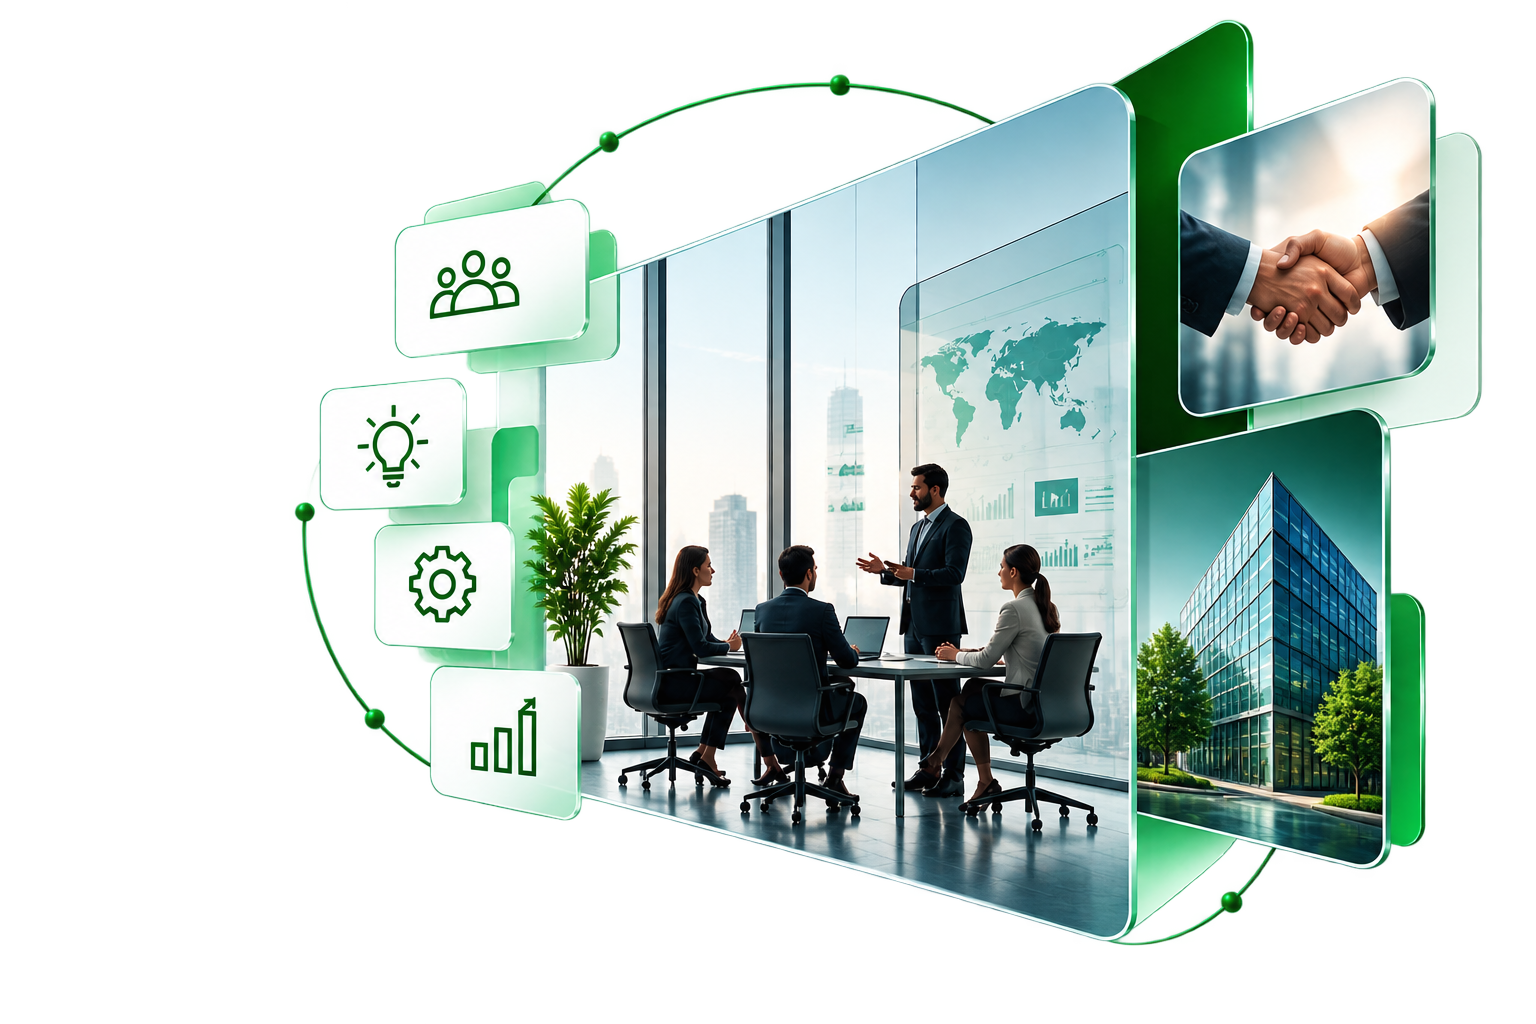
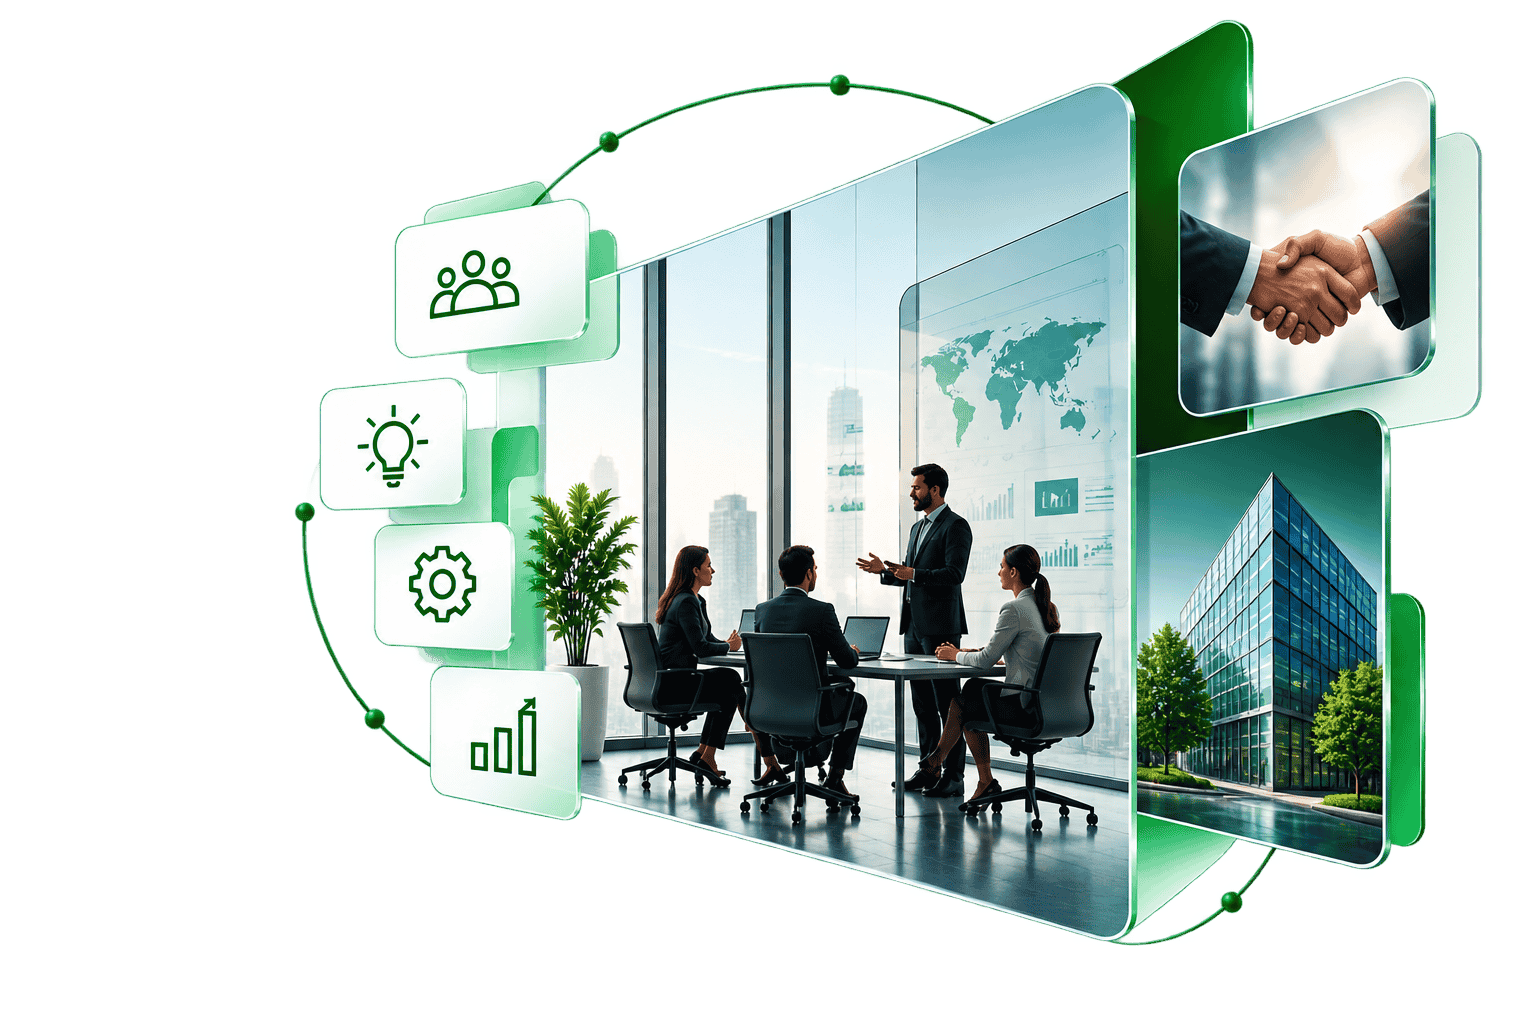
Update project

diff --git a/index.html b/index.html
@@ -1083,7 +1083,7 @@
     /* Floating Ideas Card (Top Left of Desk) */
     .hero-floating-card-ideas {
       position: absolute;
-      top: 5%;
+      top: 14%;
       left: -1.2rem;
       z-index: 12;
       background: #ffffff;
@@ -1140,7 +1140,7 @@
     /* Top Right Sketched Annotation (People / Process / Technology / Growth) */
     .hero-annotation-top-right {
       position: absolute;
-      top: 2%;
+      top: 12%;
       right: -0.5rem;
       display: flex;
       align-items: flex-start;
@@ -1187,8 +1187,10 @@
 
     @media (max-width: 900px) {
       .hero-corner-wave-wrap {
-        width: 80vw;
-        height: 50%;
+        width: 100%;
+        max-width: 100vw;
+        height: 380px;
+        max-height: 55%;
         opacity: 0.95;
       }
 
@@ -1251,12 +1253,10 @@
 
     @media (max-width: 768px) {
       .hero-viewport-frame {
-        height: 100vh;
-        height: 100dvh;
         min-height: 100vh;
-        min-height: 100dvh;
-        max-height: 100vh;
-        max-height: 100dvh;
+        min-height: 100svh;
+        height: auto;
+        max-height: none;
         overflow: hidden;
         display: flex;
         flex-direction: column;
@@ -1431,8 +1431,10 @@
       }
 
       .hero-corner-wave-wrap {
-        width: 100vw;
-        height: 45vh;
+        width: 100%;
+        max-width: 100vw;
+        height: 360px;
+        max-height: 50%;
         bottom: 0;
         right: 0;
         opacity: 1;
@@ -4262,7 +4264,7 @@
 
     <!-- Hero Section Right-Side & Bottom Sweeping Fluid Green Wave Backdrop -->
     <div class="hero-corner-wave-wrap" aria-hidden="true">
-      <svg class="hero-corner-wave-svg" viewBox="0 0 1000 900" fill="none" preserveAspectRatio="none"
+      <svg class="hero-corner-wave-svg" viewBox="0 0 1000 900" fill="none" preserveAspectRatio="xMaxYMax slice"
         xmlns="http://www.w3.org/2000/svg">
         <defs>
           <!-- Native SVG Linear Mask for smooth organic bottom fade of the wave -->
